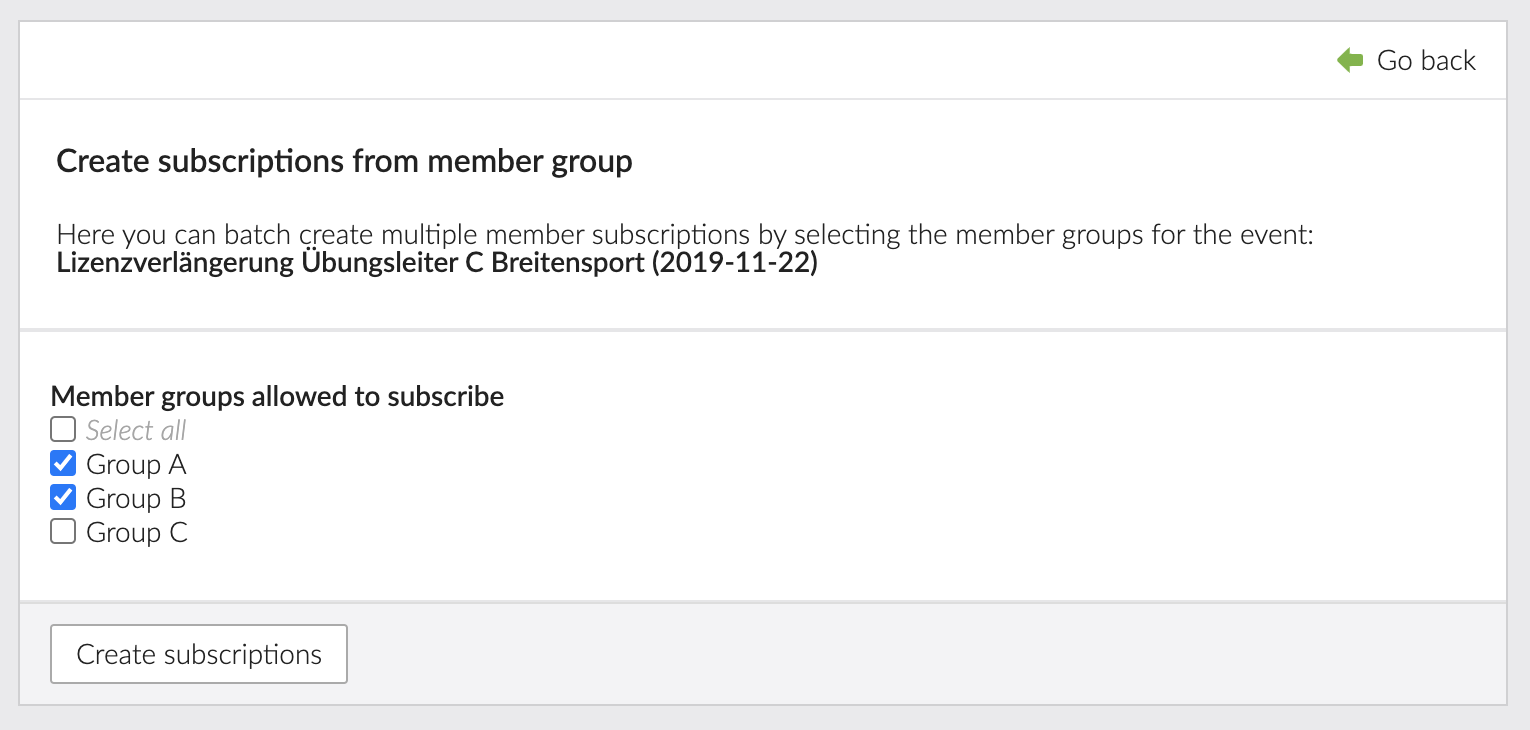
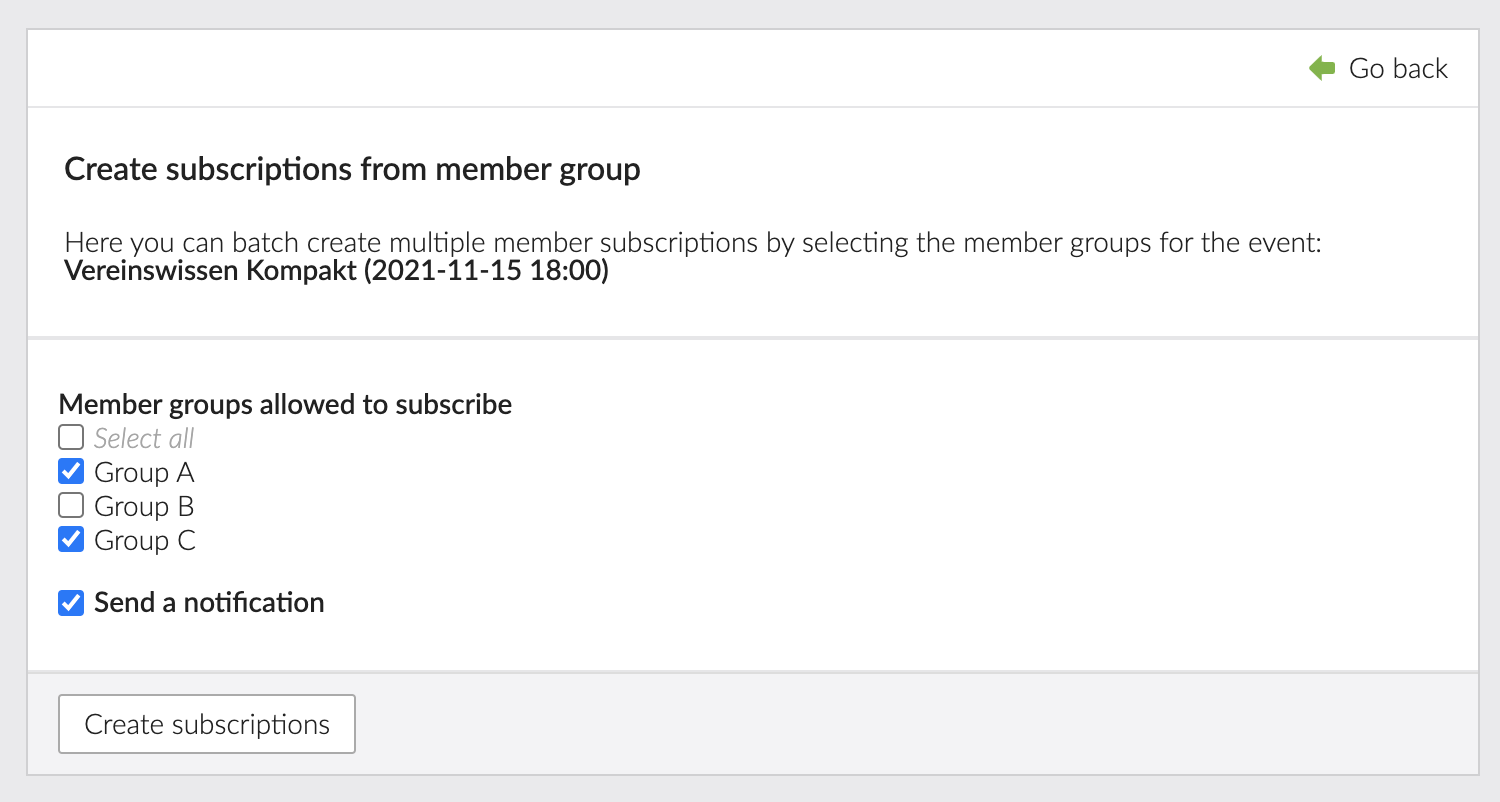
Allow to allow/prevent sending a notification when adding multiple members using a member group

diff --git a/src/Codefog/EventsSubscriptions/Backend/NewFromMemberGroupController.php b/src/Codefog/EventsSubscriptions/Backend/NewFromMemberGroupController.php
@@ -91,6 +91,10 @@ class NewFromMemberGroupController
             ], 'other-member-groups', Input::post('other-member-groups')));
         }
 
+        $template->sendNotification = new $GLOBALS['BE_FFL']['checkbox'](Widget::getAttributesFromDca([
+            'options' => [1 => &$GLOBALS['TL_LANG']['tl_calendar_events_subscription']['newFromMemberGroup.sendNotification']],
+        ], 'send-notification', Input::post('send-notification')));
+
         return $template;
     }
 
@@ -140,9 +144,11 @@ class NewFromMemberGroupController
         }
 
         $count = 0;
-        $eventConfig = new EventConfig($eventModel->getRelated('pid'), $eventModel);
         $factory = Services::getSubscriptionFactory();
         $subscriber = Services::getSubscriber();
+
+        $eventConfig = new EventConfig($eventModel->getRelated('pid'), $eventModel);
+        $eventConfig->setExtras(['notification' => (bool) Input::post('send-notification')]);
 
         // Create the subscriptions
         foreach ($members as $member) {

diff --git a/src/Codefog/EventsSubscriptions/EventConfig.php b/src/Codefog/EventsSubscriptions/EventConfig.php
@@ -27,6 +27,11 @@ class EventConfig
     private $event;
 
     /**
+     * @var array
+     */
+    private $extras = [];
+
+    /**
      * EventConfig constructor.
      *
      * @param CalendarModel       $calendar
@@ -35,7 +40,7 @@ class EventConfig
     public function __construct(CalendarModel $calendar, CalendarEventsModel $event)
     {
         $this->calendar = $calendar;
-        $this->event    = $event;
+        $this->event = $event;
     }
 
     /**
@@ -70,6 +75,30 @@ class EventConfig
     public function getEvent()
     {
         return $this->event;
+    }
+
+    /**
+     * Get the exrta data.
+     *
+     * @return array
+     */
+    public function getExtras()
+    {
+        return $this->extras;
+    }
+
+    /**
+     * Set the extra data.
+     *
+     * @param array $extras
+     *
+     * @return EventConfig
+     */
+    public function setExtras(array $extras)
+    {
+        $this->extras = $extras;
+
+        return $this;
     }
 
     /**

diff --git a/languages/en/tl_calendar_events_subscription.php b/languages/en/tl_calendar_events_subscription.php
@@ -106,6 +106,7 @@ $GLOBALS['TL_LANG']['tl_calendar_events_subscription']['export.excel'] = 'Export
 $GLOBALS['TL_LANG']['tl_calendar_events_subscription']['newFromMemberGroup.headline'] = 'Create subscriptions from member group';
 $GLOBALS['TL_LANG']['tl_calendar_events_subscription']['newFromMemberGroup.explanation'] = 'Here you can batch create multiple member subscriptions by selecting the member groups for the event:';
 $GLOBALS['TL_LANG']['tl_calendar_events_subscription']['newFromMemberGroup.noMembers'] = 'There are no active members to subscribe.';
+$GLOBALS['TL_LANG']['tl_calendar_events_subscription']['newFromMemberGroup.sendNotification'] = 'Send a notification';
 $GLOBALS['TL_LANG']['tl_calendar_events_subscription']['newFromMemberGroup.submit'] = 'Create subscriptions';
 $GLOBALS['TL_LANG']['tl_calendar_events_subscription']['newFromMemberGroup.confirmation'] = '%s members subscribed to this event successfully!';
 

diff --git a/src/Codefog/EventsSubscriptions/Event/SubscribeEvent.php b/src/Codefog/EventsSubscriptions/Event/SubscribeEvent.php
@@ -27,6 +27,11 @@ class SubscribeEvent
     private $subscription;
 
     /**
+     * @var array
+     */
+    private $extras;
+
+    /**
      * SubscribeEvent constructor.
      *
      * @param SubscriptionModel     $model
@@ -68,5 +73,21 @@ class SubscribeEvent
     public function setSubscription($subscription)
     {
         $this->subscription = $subscription;
+    }
+
+    /**
+     * @return array
+     */
+    public function getExtras()
+    {
+        return $this->extras;
+    }
+
+    /**
+     * @param array $extras
+     */
+    public function setExtras(array $extras)
+    {
+        $this->extras = $extras;
     }
 }

diff --git a/src/Codefog/EventsSubscriptions/Subscriber.php b/src/Codefog/EventsSubscriptions/Subscriber.php
@@ -73,10 +73,10 @@ class Subscriber
         $model->save();
 
         // Dispatch the event
-        $this->eventDispatcher->dispatch(
-            EventDispatcher::EVENT_ON_SUBSCRIBE,
-            new SubscribeEvent($model, $subscription)
-        );
+        $dispatchEvent = new SubscribeEvent($model, $subscription);
+        $dispatchEvent->setExtras($event->getExtras());
+
+        $this->eventDispatcher->dispatch(EventDispatcher::EVENT_ON_SUBSCRIBE, $dispatchEvent);
 
         return $model;
     }

diff --git a/src/Codefog/EventsSubscriptions/EventListener/NotificationListener.php b/src/Codefog/EventsSubscriptions/EventListener/NotificationListener.php
@@ -46,6 +46,13 @@ class NotificationListener
      */
     public function onSubscribe(SubscribeEvent $event)
     {
+        $extras = $event->getExtras();
+
+        // Do not set notification if explicitly set not to do so
+        if (isset($extras['notification']) && $extras['notification'] === false) {
+            return;
+        }
+
         $this->sender->sendByType('events_subscriptions_subscribe', $event->getModel());
     }
 

diff --git a/src/Codefog/EventsSubscriptions/Subscription/AbstractSubscription.php b/src/Codefog/EventsSubscriptions/Subscription/AbstractSubscription.php
@@ -128,7 +128,7 @@ abstract class AbstractSubscription implements ModuleDataAwareInterface, Subscri
      */
     public function writeToModel(EventConfig $event, SubscriptionModel $model)
     {
-        if (($form = $this->getForm($event)) === null) {
+        if (($form = $this->getForm($event)) === null || !$form->isSubmitted()) {
             return;
         }
 
